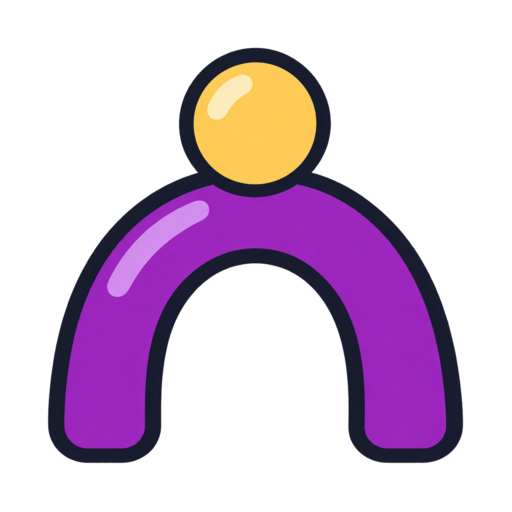
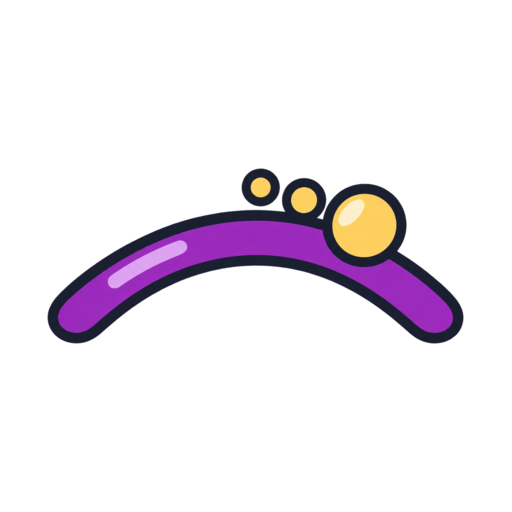
[art] 6차 E 2차: 영역 4 포물선 장식·뱃지 재납품

Changed region(s): [[0.0938, 0.0938, 0.9062, 0.9062]]

diff --git a/IMAGES.md b/IMAGES.md
@@ -125,15 +125,15 @@
 
 | # | 파일 | 크기 | 쓰이는 곳 | 한국어 설명 | 참조 그림 | 상태 |
 | --- | --- | --- | --- | --- | --- | --- |
-| E1-4 | `area-math-4.png` | 512×512 | 수학 지식 지도 「영역 4 · 함수·변화·미적분」 제목 옆 **32px** | 보라색 **두꺼운 아치**(뒤집힌 U자 포물선 모양 띠, 무지개다리처럼 통통하게) 꼭대기에 **노란 공** 하나 — 던진 공의 포물선·꼭짓점 | `area-math-1.png`, `area-math-3.png` | 납품 |
+| E1-4 | `area-math-4.png` | 512×512 | 수학 지식 지도 「영역 4 · 함수·변화·미적분」 제목 옆 **32px** | (재요청) **낮고 넓은 보라 포물선 띠**(폭이 높이의 2배 이상) **오른쪽 내리막**에 노란 공, 공 뒤로 작은 노란 점 2개가 궤적 — 던진 공의 포물선. 공은 꼭대기 가운데 금지 | `area-math-1.png`, `area-math-3.png` | 납품(2차) — 재검수 대기 |
 | E1-2 | `area-math-2.png` | 512×512 | 「영역 2 · 논리·집합·증명」 제목 옆 **32px** | **꽉 채운 원 두 개가 겹친 벤 다이어그램** — 왼쪽 청록, 오른쪽 파랑, 겹친 부분은 진한 남청록 | `area-math-1.png`, `area-math-3.png` | 납품 |
-| E2-4 | `badge-math_area_4.png` | 256×256 | 뱃지 화면 56px·획득 알림·공유 카드 48px (영역 4 전부 완료) | 보라 메달 + 영역 4 장식과 같은 아치와 노란 공 | `badge-math_area_1.png`, `badge-math_area_3.png` | 납품 |
+| E2-4 | `badge-math_area_4.png` | 256×256 | 뱃지 화면 56px·획득 알림·공유 카드 48px (영역 4 전부 완료) | (재요청) 보라 메달 + 영역 4 장식과 같은 낮은 포물선 띠·오른쪽 공·점 궤적 | `badge-math_area_1.png`, `badge-math_area_3.png` | 납품(2차) — 재검수 대기 |
 | E2-2 | `badge-math_area_2.png` | 256×256 | 같은 자리 (영역 2 전부 완료) | 청록 메달 + 겹친 원 두 개(노랑·흰색, 겹친 부분 주황) | `badge-math_area_1.png`, `badge-math_area_3.png` | 납품 |
 
-### E1-4 `area-math-4.png`
+### E1-4 `area-math-4.png` — 재요청(2차) 납품
 
 ```text
-Create ONE educational game asset, a flat vector-style sticker illustration matching the supplied reference set's line weight, rounded shapes and bright palette. Bold dark navy #1d2230 outlines. Clean SOLID color fills and small solid highlights only, absolutely NO smooth gradients, no 3D render, no texture. Transparent background, one centered subject, 8% clear margin on all four sides. Outer edge dark navy; any pale accent must stay INSIDE the dark outline, no white exterior sticker halo or drop shadow. No letters, words, numerals, brands. Palette blue #6c8cff green #2bb673 yellow #ffd166 red #ff5d6c orange #ffb347 purple #9c27b0 teal #00acc1. Must stay readable at 32px: chunky FILLED shapes only — no thin lines, no dashed lines, no axes, no grid. No circular medal or backdrop. Reference is style only; replace its subject entirely. Subject: one thick solid purple (#9c27b0) arch shaped like an upside-down U parabola, drawn as a single wide rounded band (chunky like a toy rainbow bridge, NOT a thin curve), both feet resting on an invisible baseline, with one round yellow (#ffd166) ball sitting exactly on the top of the arch. Optional thin pale purple highlight inside the band. Nothing else: no ground, no arrows, no second curve, no sparkles. 512x512.
+Create ONE educational game asset, a flat vector-style sticker illustration matching the supplied reference set's line weight, rounded shapes and bright palette. Bold dark navy #1d2230 outlines. Clean SOLID color fills and small solid highlights only, absolutely NO smooth gradients, no 3D render, no texture. Transparent background, one centered subject, 8% clear margin on all four sides. Outer edge dark navy; any pale accent must stay INSIDE the dark outline, no white exterior sticker halo or drop shadow. No letters, words, numerals, brands. Palette blue #6c8cff green #2bb673 yellow #ffd166 red #ff5d6c orange #ffb347 purple #9c27b0 teal #00acc1. Must stay readable at 32px: chunky FILLED shapes only — no thin lines, no dashed lines, no axes, no grid. No circular medal or backdrop. Reference is style only; replace its subject entirely. Subject: a LOW and WIDE thick purple (#9c27b0) parabola band — width at least twice its height, like a gentle hill-shaped arc drawn as one chunky rounded band (not a thin curve), both ends on an invisible baseline. One round yellow (#ffd166) ball sits ON THE RIGHT DOWNHILL SIDE of the arc (about two-thirds along, NOT at the top center), and two smaller solid yellow dots trail behind it along the top of the arc toward the upper left, showing the ball's path. The whole icon must NOT look like a person, user avatar or head-and-shoulders symbol: never put the ball centered above the arc, never make the arc tall and narrow. No ground, no arrows, no second curve, no sparkles. 512x512.
 ```
 
 ### E1-2 `area-math-2.png`
@@ -142,10 +142,10 @@ Create ONE educational game asset, a flat vector-style sticker illustration matc
 Create ONE educational game asset, a flat vector-style sticker illustration matching the supplied reference set's line weight, rounded shapes and bright palette. Bold dark navy #1d2230 outlines. Clean SOLID color fills and small solid highlights only, absolutely NO smooth gradients, no 3D render, no texture. Transparent background, one centered subject, 8% clear margin on all four sides. Outer edge dark navy; any pale accent must stay INSIDE the dark outline, no white exterior sticker halo or drop shadow. No letters, words, numerals, brands. Palette blue #6c8cff green #2bb673 yellow #ffd166 red #ff5d6c orange #ffb347 purple #9c27b0 teal #00acc1. Must stay readable at 32px: chunky FILLED shapes only — no thin lines, no dashed lines, no axes, no grid. No circular medal or backdrop. Reference is style only; replace its subject entirely. Subject: a Venn diagram made of two large FULLY FILLED overlapping circles of equal size, side by side, overlapping by about one third. Left circle solid teal (#00acc1), right circle solid blue (#6c8cff), the shared lens-shaped overlap filled solid darker navy-teal (#1d6f8a). Every circle edge and the overlap edge has the same bold dark navy outline. No dots, no labels, no outer rectangle, no chain links. 512x512.
 ```
 
-### E2-4 `badge-math_area_4.png`
+### E2-4 `badge-math_area_4.png` — 재요청(2차) 납품
 
 ```text
-Create ONE PNG badge for a consistent educational game medal set. Flat vector sticker illustration, bold dark navy #1d2230 outlines, solid clean color shapes, no gradients, no dimensional rendering, no texture. Round medal with simple thick concentric rim and large central subject legible at 48px. Outermost edge DARK NAVY, thin lighter INNER rim, absolutely no white external sticker halo or shadow. True transparent background outside the medal. Centered square composition, at least 8% clear margins. No letters, numbers, words, brands or watermarks. Match reference medal silhouette, line weight and style, replace its central subject with requested one. Palette blue #6c8cff green #2bb673 yellow #ffd166 red #ff5d6c orange #ffb347 purple #9c27b0 teal #00acc1. Subject: a round purple (#9c27b0) medal with one very large thick light lavender upside-down U arch (chunky band, parabola shape) and a single round yellow (#ffd166) ball on its top, centered on the medal face. No stars, no graph axes, no other objects. 256x256.
+Create ONE PNG badge for a consistent educational game medal set. Flat vector sticker illustration, bold dark navy #1d2230 outlines, solid clean color shapes, no gradients, no dimensional rendering, no texture. Round medal with simple thick concentric rim and large central subject legible at 48px. Outermost edge DARK NAVY, thin lighter INNER rim, absolutely no white external sticker halo or shadow. True transparent background outside the medal. Centered square composition, at least 8% clear margins. No letters, numbers, words, brands or watermarks. Match reference medal silhouette, line weight and style, replace its central subject with requested one. Palette blue #6c8cff green #2bb673 yellow #ffd166 red #ff5d6c orange #ffb347 purple #9c27b0 teal #00acc1. Subject: a round purple (#9c27b0) medal with one LOW and WIDE thick light lavender parabola band across the medal face (width at least twice its height, chunky rounded band), a single round yellow (#ffd166) ball on its RIGHT downhill side (not at the top center) and two smaller solid yellow dots trailing behind it along the arc. Must NOT look like a person or user avatar icon. No stars, no graph axes, no other objects. 256x256.
 ```
 
 ### E2-2 `badge-math_area_2.png`
@@ -159,6 +159,8 @@ Create ONE PNG badge for a consistent educational game medal set. Flat vector st
 **납품 체크리스트(6차부터 — workflow 8절)**: 지정 파일명·크기로 `assets/img/`에 저장 → `python3 tools/img_clean.py --check`(현재 이 도구는 `area-` 크기를 안 봄 → 512×512인지 직접 확인) → 생성 프롬프트를 `assets/img/README.md` 맨 아래에 「6차 E」로 기록 → 이 표 「상태」를 `납품`으로 → **`art/6차` 브랜치에 커밋 → PR**. `APP_VERSION`·`node tools/stamp.mjs`·HANDOFF 상태판은 **손대지 않는다**(릴리스 때 함께). 2절 완료 표로 옮기는 것은 아트팀 검수 통과 뒤.
 
 **납품 메모(2026-11-02, Codex)**: E1-4 → E1-2 → E2-4 → E2-2 순서로 4장 생성. 위 영어 프롬프트와 지정 참조 그림을 변경 없이 사용. 영역 512×512·뱃지 256×256 RGBA, 사방 여백 47/23px, `img_clean --check` 통과. 다크/라이트 32px·48/56px 축소본에서 소재 식별 확인. 생성 결과에 약한 색조 변화가 남아 있어 완전 단색 여부는 아트팀 최종 검수 대상. C10 미병합 상태라 실제 지도·뱃지 렌더 검수는 C10 병합 후 진행. 상태는 납품이며 2절 완료 표로 이동하지 않음.
+
+**2차 납품 메모(2026-11-02, Codex)**: `art/6차-검수`의 수정 프롬프트로 E1-4 → E2-4 재생성. 낮고 넓은 포물선 띠·오른쪽 내리막의 공·작은 궤적 점 2개로 변경했다. 뱃지 최초 결과의 아래로 처진 곡선은 E1-4를 참조한 추가 편집으로 같은 언덕 모양으로 교정(프롬프트 기록: `assets/img/README.md`). 512/256 RGBA·사방 여백 47/23px·img_clean 검사 통과, 다크/라이트 32·48/56px 축소본 확인. 최종 아트팀 재검수·실제 앱 화면 확인은 별도. E1-2·E2-2 파일은 변경하지 않았다.
 
 ## 4. 그 뒤 (자리 없음 — 만들지 말 것)
 

diff --git a/assets/img/README.md b/assets/img/README.md
@@ -737,3 +737,30 @@ Create ONE PNG badge for a consistent educational game medal set. Flat vector st
 ```text
 Create ONE PNG badge for a consistent educational game medal set. Flat vector sticker illustration, bold dark navy #1d2230 outlines, solid clean color shapes, no gradients, no dimensional rendering, no texture. Round medal with simple thick concentric rim and large central subject legible at 48px. Outermost edge DARK NAVY, thin lighter INNER rim, absolutely no white external sticker halo or shadow. True transparent background outside the medal. Centered square composition, at least 8% clear margins. No letters, numbers, words, brands or watermarks. Match reference medal silhouette, line weight and style, replace its central subject with requested one. Palette blue #6c8cff green #2bb673 yellow #ffd166 red #ff5d6c orange #ffb347 purple #9c27b0 teal #00acc1. Subject: a round teal (#00acc1) medal with two large fully filled overlapping circles in the center (Venn diagram): left circle yellow (#ffd166), right circle cream white, the overlap filled orange (#ffb347), all with bold dark navy outlines. No stars, no chain links, no other objects. 256x256.
 ```
+
+
+## 6차 E — 재요청(2차), 2026-11-02
+
+출처: `art/6차-검수` (0b13c17dc3b992e9d7430b25d9abbf51cffebe13) IMAGES.md 3절. E1-4 → E2-4 수정 프롬프트로 재생성. 영역 512×512, 뱃지 256×256 RGBA, 여백 47/23px. img_clean 및 다크/라이트 32·48/56px 축소본 확인.
+
+### E1-4 `area-math-4.png`
+
+요청서 참조: `area-math-1.png`, `area-math-3.png`
+
+```text
+Create ONE educational game asset, a flat vector-style sticker illustration matching the supplied reference set's line weight, rounded shapes and bright palette. Bold dark navy #1d2230 outlines. Clean SOLID color fills and small solid highlights only, absolutely NO smooth gradients, no 3D render, no texture. Transparent background, one centered subject, 8% clear margin on all four sides. Outer edge dark navy; any pale accent must stay INSIDE the dark outline, no white exterior sticker halo or drop shadow. No letters, words, numerals, brands. Palette blue #6c8cff green #2bb673 yellow #ffd166 red #ff5d6c orange #ffb347 purple #9c27b0 teal #00acc1. Must stay readable at 32px: chunky FILLED shapes only — no thin lines, no dashed lines, no axes, no grid. No circular medal or backdrop. Reference is style only; replace its subject entirely. Subject: a LOW and WIDE thick purple (#9c27b0) parabola band — width at least twice its height, like a gentle hill-shaped arc drawn as one chunky rounded band (not a thin curve), both ends on an invisible baseline. One round yellow (#ffd166) ball sits ON THE RIGHT DOWNHILL SIDE of the arc (about two-thirds along, NOT at the top center), and two smaller solid yellow dots trail behind it along the top of the arc toward the upper left, showing the ball's path. The whole icon must NOT look like a person, user avatar or head-and-shoulders symbol: never put the ball centered above the arc, never make the arc tall and narrow. No ground, no arrows, no second curve, no sparkles. 512x512.
+```
+
+### E2-4 `badge-math_area_4.png`
+
+요청서 참조: `badge-math_area_1.png`, `badge-math_area_3.png`
+
+```text
+Create ONE PNG badge for a consistent educational game medal set. Flat vector sticker illustration, bold dark navy #1d2230 outlines, solid clean color shapes, no gradients, no dimensional rendering, no texture. Round medal with simple thick concentric rim and large central subject legible at 48px. Outermost edge DARK NAVY, thin lighter INNER rim, absolutely no white external sticker halo or shadow. True transparent background outside the medal. Centered square composition, at least 8% clear margins. No letters, numbers, words, brands or watermarks. Match reference medal silhouette, line weight and style, replace its central subject with requested one. Palette blue #6c8cff green #2bb673 yellow #ffd166 red #ff5d6c orange #ffb347 purple #9c27b0 teal #00acc1. Subject: a round purple (#9c27b0) medal with one LOW and WIDE thick light lavender parabola band across the medal face (width at least twice its height, chunky rounded band), a single round yellow (#ffd166) ball on its RIGHT downhill side (not at the top center) and two smaller solid yellow dots trailing behind it along the arc. Must NOT look like a person or user avatar icon. No stars, no graph axes, no other objects. 256x256.
+```
+
+곡선 방향 교정 편집(참조 1: 최초 생성 뱃지, 참조 2: 이번 `area-math-4.png` 생성 원본):
+
+```text
+Edit the FIRST reference medal. Keep its purple circular medal and rim unchanged. Replace the curved central symbol with the exact low wide HILL-shaped parabola silhouette and ball arrangement in the SECOND reference. The arc must be CONCAVE DOWN like an upside-down shallow bowl: both ends at equal LOW height, center HIGHER, width at least twice height. Color this thick band LIGHT LAVENDER. Place the large yellow ball on its RIGHT DOWNHILL slope, two smaller yellow trail dots behind toward upper left, matching reference 2. No banana, no crescent, no valley shape, no person silhouette. Center this group inside medal. Dark navy outlines, flat solid fills, transparent outside medal, no text, preserve clear margins.
+```

diff --git a/CHANGELOG.md b/CHANGELOG.md
@@ -4,6 +4,8 @@
 
 ## 미배포 (다음 릴리스에 들어갈 것 — 팀 PR 은 여기에 항목만 추가, 버전 머리글은 Fable 이 릴리스 때)
 
+- 🎨 (아트 6차 E 2차 납품) 영역 4 장식·완료 뱃지의 좁은 아치와 가운데 공을 낮고 넓은 포물선·오른쪽 공·궤적 점 2개로 교체. 영역 2 이미지는 유지. 아트팀 재검수 대기.
+
 ## v2.3.9 — 2026-11-02 (릴리스 당번 Opus: PR #11·#12·#13·#14·#15·#16·#17·#18·#19·#20·#21)
 - 💡 (콘텐츠팀 C7) 알고리즘 A0~A15·보스 AB1~AB3 힌트 86개 전수 점검 — 39문제 수정. 코드 문제의 힌트 1이 코드 조각부터 시작하던 것을 **아이디어를 말로 짚는 단계**로 바꾸고(기존 코드 힌트는 2단계로 합쳐 보존), 3단계를 정답과 같은 코드로 맞췄어요. A2P3·AB1P2 힌트 3의 틀린 코드도 고쳤어요. 점검 결과는 QA.md.
 - 🧩 (콘텐츠팀 C8) 알고리즘 실전 E1~E6에 **연습 문제** 하나씩(알고리즘 139 → 145문제): 각 프로젝트의 한 단계만 떼어 낸 작은 코드 문제 — 미로 최단 거리(👀 격자 시각화)·두 역 최단 시간·최소 교실 수·친구 그룹 세기·역색인 검색·명령 따라 움직이기. 입력 방식(`sys.stdin.read()`)은 프로젝트와 같고 테스트 4개씩. `CONFIG.COURSES` algo total 145(값만).
